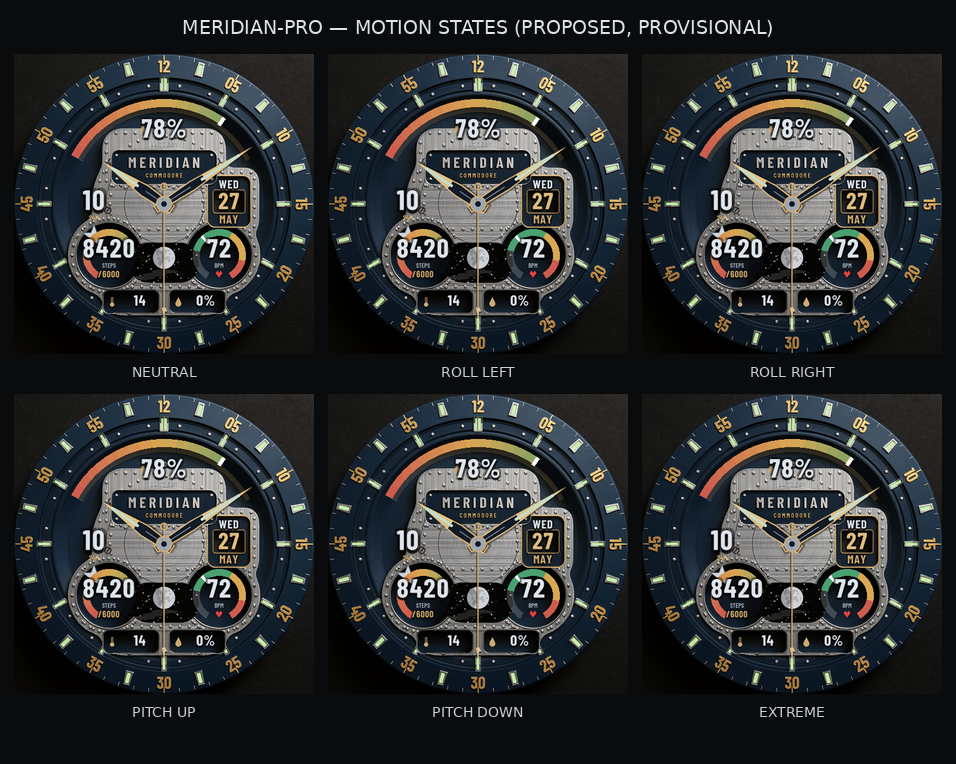
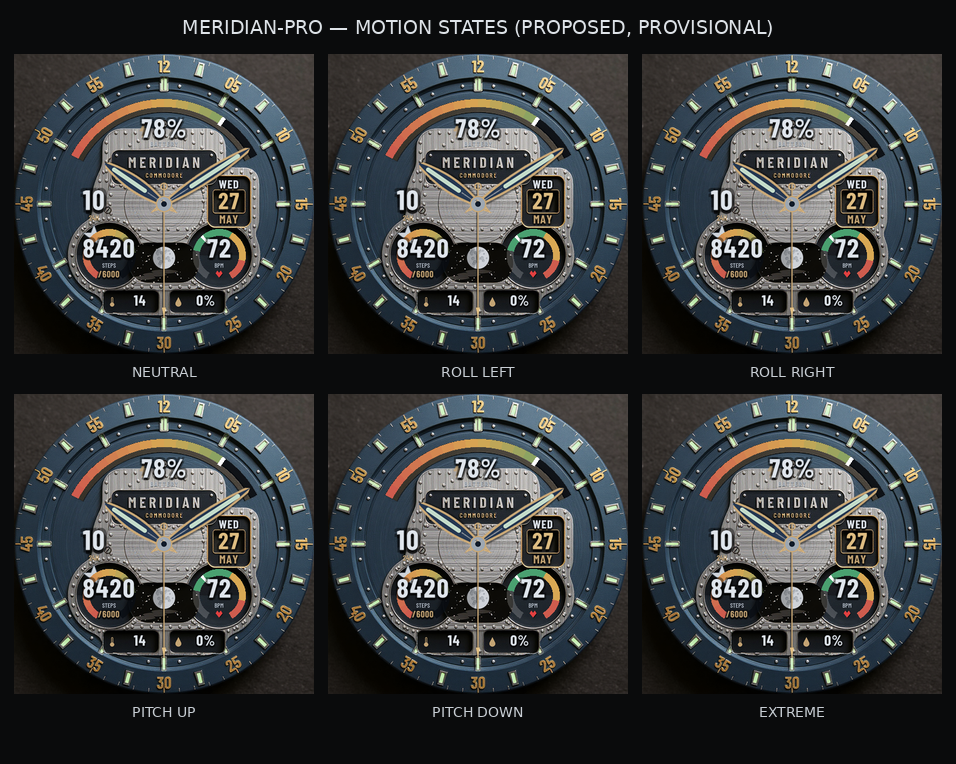
MERIDIAN PRO v5: actually muted, and propeller hands
The owner was right twice over and said to use the eye. Measured: the
rendered bezel band sat around (28,38,52) while the concept's is
(59,81,105) - the muted palette had gone into the vectors while the DRAWN
BASE kept its dark gradients, heavy vignette and construction shadows, and
Kontext obliged. The dial is now nearly-flat dusty slate with no black
rim, the bezel grade and rim shadows are cut by half or more, every
construction shadow lightened, and the lighting sentence of the prompt is
variant-switched with a parse check after the earlier silent replace
failure - soft matte, dusty pastel slate-blue, no deep blacks.

Hands are propellers as ordered: broad blades that swell through the
middle and round at the tip, a counter-blade behind the boss, wide lume
spine, and after the first pass drowned against navy - thicker gold edges
and a lifted blade blue so the width actually reads. Hour 26 wide,
minute 21.

8/8 anchors held on the K5 generation. Bold 0.3.0 and muted 0.4.0/0.5.0
all preserved in collection/apk.

Changed region(s): [[0.0, 0.0602, 1.0, 0.4817], [0.0, 0.5118, 1.0, 0.9031]]

diff --git a/tools/meridian_pro/plate.py b/tools/meridian_pro/plate.py
@@ -75,10 +75,13 @@ def dial_base():
     img = Image.new("RGBA", (S, S), (0, 0, 0, 255))
     d = ImageDraw.Draw(img)
     hi, lo = P["dial_hi"], P["dial_lo"]
+    # Nearly flat dusty slate — the concept has NO black rim vignette; its
+    # chapter ring is LIGHTER than this build's ever was. Gentle centre dip
+    # only.
     for i in range(120, 0, -1):
-        t = i / 120
-        r = (BEZEL["outer_r"] * SS) * t
-        col = tuple(int(lo[k] + (hi[k] - lo[k]) * (1 - t * t))
+        tt = i / 120
+        r = (BEZEL["outer_r"] * SS) * tt
+        col = tuple(int(hi[k] + (lo[k] - hi[k]) * (1 - tt) * 0.6)
                     for k in range(3))
         d.ellipse([CX * SS - r, CY * SS - r, CX * SS + r, CY * SS + r],
                   fill=(*col, 255))
@@ -122,7 +125,7 @@ def bezel(img):
     grad = Image.new("L", (S, S), 0)
     gd = ImageDraw.Draw(grad)
     for y in range(0, S, SS):
-        gd.rectangle([0, y, S, y + SS], fill=int(50 * y / S))
+        gd.rectangle([0, y, S, y + SS], fill=int(22 * y / S))
     dark = Image.new("RGBA", (S, S), (*P["bezel_lo"], 255))
     band = Image.composite(dark, band,
                            ImageChops.multiply(grad, band.getchannel("A")))
@@ -132,7 +135,7 @@ def bezel(img):
         dd.arc([cx - ro + SS, cy - ro + SS, cx + ro - SS, cy + ro - SS],
                160, 380, fill=(255, 255, 255, 46), width=2 * SS),
         dd.arc([cx - ri, cy - ri, cx + ri, cy + ri], -20, 200,
-               fill=(0, 0, 0, 120), width=2 * SS),
+               fill=(0, 0, 0, 70), width=2 * SS),
         dd.arc([cx - ri, cy - ri, cx + ri, cy + ri], 160, 380,
                fill=(255, 255, 255, 30), width=SS)))
 
@@ -329,7 +332,7 @@ def centre_plate(img):
 
     sh = Image.new("RGBA", (S, S), (0, 0, 0, 255))
     sh.putalpha(base_sil.filter(ImageFilter.GaussianBlur(3 * SS)).point(
-        lambda v: v * 140 // 255))
+        lambda v: v * 90 // 255))
     img.alpha_composite(sh)
     img.alpha_composite(_steel_level(base_sil, 0, True))
 
@@ -351,7 +354,7 @@ def centre_plate(img):
     # bridge shadow, then the raised bridge itself (item 6)
     bs = Image.new("RGBA", (S, S), (0, 0, 0, 255))
     bs.putalpha(bridge_sil.filter(ImageFilter.GaussianBlur(2.5 * SS)).point(
-        lambda v: v * 110 // 255))
+        lambda v: v * 75 // 255))
     img.alpha_composite(bs)
     img.alpha_composite(_steel_level(bridge_sil, 12, False))
 
@@ -416,7 +419,7 @@ def centre_plate(img):
         er = cut.filter(ImageFilter.FIND_EDGES).point(
             lambda v: 255 if v > 24 else 0)
         ring = Image.new("RGBA", (S, S), (0, 0, 0, 0))
-        ring.paste(Image.new("RGBA", (S, S), (0, 0, 0, 220)), (0, -SS), er)
+        ring.paste(Image.new("RGBA", (S, S), (0, 0, 0, 150)), (0, -SS), er)
         ring.paste(Image.new("RGBA", (S, S), (*P["steel_hi"], 70)), (0, SS),
                    er)
         ring.putalpha(ImageChops.multiply(
@@ -426,11 +429,11 @@ def centre_plate(img):
         gd_ = ImageDraw.Draw(gsh)
         if rh is None:
             gd_.pieslice([x - rw * SS, y - rw * SS, x + rw * SS, y + rw * SS],
-                         180, 360, fill=(0, 0, 0, 95))
+                         180, 360, fill=(0, 0, 0, 60))
         else:
             gd_.rectangle([x - rw * SS / 2, y - rh * SS / 2,
                            x + rw * SS / 2, y - rh * SS / 2 + 5 * SS],
-                          fill=(0, 0, 0, 95))
+                          fill=(0, 0, 0, 60))
         gsh.putalpha(ImageChops.multiply(gsh.getchannel("A"), cut))
         img.alpha_composite(gsh.filter(ImageFilter.GaussianBlur(SS)))
         return cut
@@ -640,40 +643,55 @@ def hands(out_dir):
     from geometry import HANDS
     cx, cy = HANDS["c"][0] * SS, HANDS["c"][1] * SS
 
-    def dauphine(length, w_base):
+    def propeller(length, max_w):
+        """A propeller blade, as ordered: narrow at the hub, swelling wide
+        through the middle, rounded at the tip, with a short counter-blade
+        behind the boss. Navy lacquer in a gold edge, wide lume spine."""
         img = Image.new("RGBA", (S, S), (0, 0, 0, 0))
         d = ImageDraw.Draw(img)
         L = length * SS
-        wb = w_base * SS
-        tail = 16 * SS
-        body = [(cx, cy - L), (cx - wb, cy - L * 0.32),
-                (cx - wb * 0.75, cy + tail), (cx + wb * 0.75, cy + tail),
-                (cx + wb, cy - L * 0.32)]
+        W = max_w * SS
+        import math as _m
+        def profile(tt):          # width along the blade
+            return W * (_m.sin(_m.pi * (0.18 + 0.82 * tt) * 0.86) ** 1.2)
+        n = 26
+        left, right = [], []
+        for i in range(n + 1):
+            tt = i / n
+            y = cy - L * tt
+            w2 = profile(tt) / 2 if tt < 0.995 else 0.5
+            left.append((cx - w2, y)); right.append((cx + w2, y))
+        body = left + right[::-1]
         for off, a in ((3 * SS, 60), (1.5 * SS, 90)):
             shade(img, lambda dd, off=off, a=a: dd.polygon(
                 [(x + off, y + off) for x, y in body], fill=(0, 0, 0, a)))
+        # counter-blade
+        cb = 26 * SS
+        d.polygon([(cx - W * 0.28, cy), (cx, cy + cb), (cx + W * 0.28, cy)],
+                  fill=(*P["gold"], 255))
         d.polygon(body, fill=(*P["gold"], 255))
-        inset = 2.2 * SS
-        d.polygon([(cx, cy - L + inset * 2.2),
-                   (cx - wb + inset, cy - L * 0.32),
-                   (cx - wb * 0.75 + inset, cy + tail - inset),
-                   (cx + wb * 0.75 - inset, cy + tail - inset),
-                   (cx + wb - inset, cy - L * 0.32)],
-                  fill=(16, 26, 40, 255))
-        tip = 0.20
-        d.polygon([(cx, cy - L),
-                   (cx - wb * (1 - tip), cy - L * (0.32 + 0.68 * tip)),
-                   (cx + wb * (1 - tip), cy - L * (0.32 + 0.68 * tip))],
-                  fill=(*P["gold_hi"], 255))
-        d.rounded_rectangle([cx - 2.2 * SS, cy - L * 0.86, cx + 2.2 * SS,
-                             cy - L * 0.42], radius=2 * SS,
+        inner = []
+        for i in range(n + 1):
+            tt = i / n
+            y = cy - L * tt
+            w2 = max(0.5, profile(tt) / 2 - 3.6 * SS)
+            inner.append((cx - w2, y))
+        for i in range(n, -1, -1):
+            tt = i / n
+            y = cy - L * tt
+            w2 = max(0.5, profile(tt) / 2 - 3.6 * SS)
+            inner.append((cx + w2, y))
+        d.polygon(inner, fill=(38, 56, 82, 255))
+        # wide lume spine
+        d.rounded_rectangle([cx - 3.2 * SS, cy - L * 0.88, cx + 3.2 * SS,
+                             cy - L * 0.30], radius=3 * SS,
                             fill=(*P["lume"], 255))
-        d.line([(cx, cy - L * 0.30), (cx, cy + tail * 0.6)],
-               fill=(255, 255, 255, 60), width=SS)
+        d.line([(cx, cy - L * 0.28), (cx, cy + cb * 0.6)],
+               fill=(255, 255, 255, 55), width=SS)
         return img
 
-    h = dauphine(118, 10.5)
-    m = dauphine(168, 8.5)
+    h = propeller(114, 26)
+    m = propeller(164, 21)
     s_img = Image.new("RGBA", (S, S), (0, 0, 0, 0))
     d = ImageDraw.Draw(s_img)
     L = 182 * SS

diff --git a/tools/meridian_pro/geometry.py b/tools/meridian_pro/geometry.py
@@ -224,16 +224,16 @@ PALETTE_MUTED = {
     # The concept's own temperament: softer saturation, dustier navy,
     # gentler gold, matte zones. The owner: "the concept was a bit more
     # muted." Bold stays available as PALETTE_BOLD (MP_VARIANT=bold).
-    "dial_hi":   (42, 62, 86),
-    "dial_lo":   (18, 30, 46),
-    "bezel_hi":  (52, 72, 94),
-    "bezel_lo":  (28, 42, 60),
-    "gold":      (206, 170, 110),
+    "dial_hi":   (46, 68, 94),
+    "dial_lo":   (34, 52, 74),
+    "bezel_hi":  (64, 86, 110),
+    "bezel_lo":  (46, 64, 86),
+    "gold":      (196, 164, 116),
     "gold_hi":   (224, 190, 130),
     "steel_hi":  (214, 222, 230),
     "steel":     (158, 168, 179),
     "steel_lo":  (84, 94, 108),
-    "well":      (16, 26, 40),
+    "well":      (22, 34, 50),
     "lume":      (196, 220, 202),
     "ink":       (224, 230, 237),
     "zone_ok":   (74, 160, 112),

diff --git a/tools/meridian_pro/kontext_pass.py b/tools/meridian_pro/kontext_pass.py
@@ -55,9 +55,12 @@ PROMPT = (
     "corner rivets. The dark circular wells, the navy windows with steel "
     "frames, the gold-framed date window with its black inner box, and "
     "the arch-shaped night-sky opening with stars must all stay empty and "
-    "dark inside - add nothing in any opening. Dramatic studio product "
-    "photography with strong ambient occlusion, mixed brushed and "
-    "polished finishes, extremely sharp, 8k."
+    "dark inside - add nothing in any opening. "
+    + ("Soft matte low-contrast product photography, gently and evenly "
+       "lit, dusty pastel slate-blue tones, satin metal, no deep blacks, "
+       "no harsh contrast, extremely sharp, 8k." if MUTED else
+       "Dramatic studio product photography with strong ambient occlusion, "
+       "mixed brushed and polished finishes, extremely sharp, 8k.")
 )
 
 
